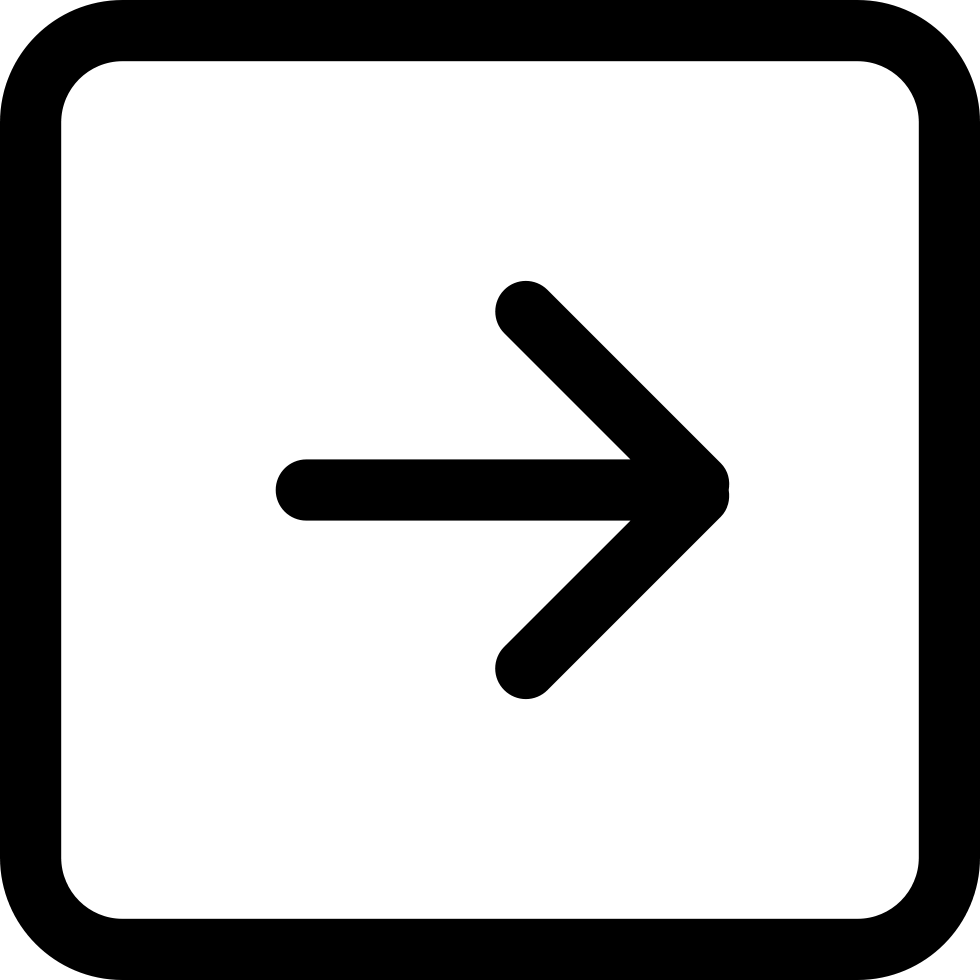
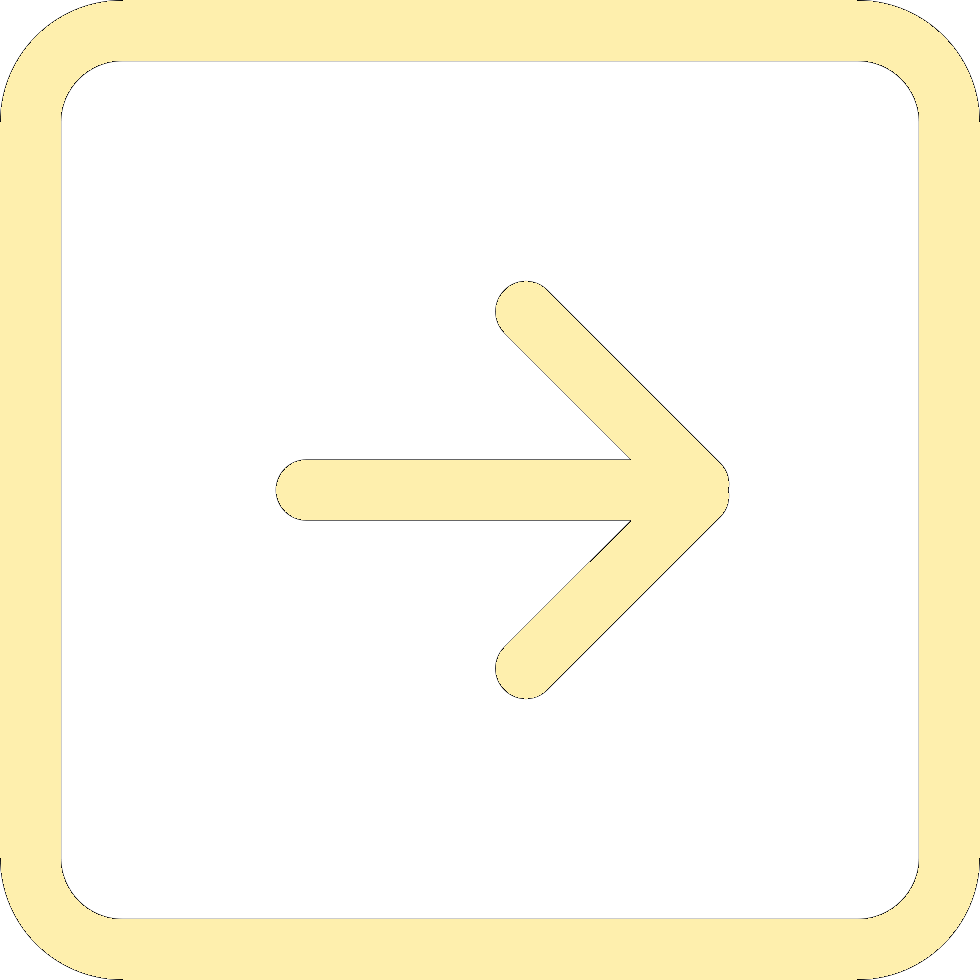
ft: new DA

Changed region(s): [[0.0, 0.0, 1.0, 1.0], [0.2755, 0.2755, 0.7653, 0.7347]]

diff --git a/Interface.py b/Interface.py
@@ -15,6 +15,7 @@ from PyQt6.QtWidgets import (
     QMenuBar,
     QProgressBar,
     QSlider,
+    QFrame,
     QStatusBar
 )
 MARTY: Marty 
@@ -92,13 +93,17 @@ class Ui_MainWindow:
         self.Right.pressed.connect(self.right_button_pressed)
         self.Right.released.connect(self.right_button_released)
         
+        self.frame = QFrame(self.centralwidget)
+        self.frame.setGeometry(QtCore.QRect(900, 20, 270, 70))
+        self.frame.setStyleSheet("background-color: #FEEFAD; border: 0px solid black;")
+
         #Bouton Red
         self.Red = QPushButton("", self.centralwidget)    
         self.Red.setStyleSheet("background-color: #ed1c24;") 
         self.Red.setObjectName("Red")
-        self.Red.setGeometry(900, 30, 50, 50)
+        self.Red.setGeometry(self.frame.pos().x() + 10, self.frame.pos().y() + 10, 50, 50)
         self.Red.clicked.connect(self.Red_button_clicked)
-        print(self.Red.pos().x())
+        
         #Bouton Green
         self.Green = QPushButton("", self.centralwidget)    
         self.Green.setStyleSheet("background-color: #22b14c;") 
@@ -282,9 +287,11 @@ class Ui_MainWindow:
     def connexion_button_clicked(self):
         global MARTY 
         MARTY = connect("usb", "COM8")
+        self.Connexion_icon.setPixmap(QPixmap("./Interface/connexion_on.png"))
         
     def deconnexion_button_clicked(self):
         disconnect(MARTY)
+        self.Connexion_icon.setPixmap(QPixmap("./Interface/connexion.png"))
 
     def dance_button_pressed(self):
         self.state = "dance"
@@ -330,7 +337,6 @@ class Ui_MainWindow:
     def action(self):
         if self.state == "idle":
             stop(MARTY)
-
         if self.state == "forward":
             #print("forward")
             toward(MARTY, self.CurseurVitesse.value())
